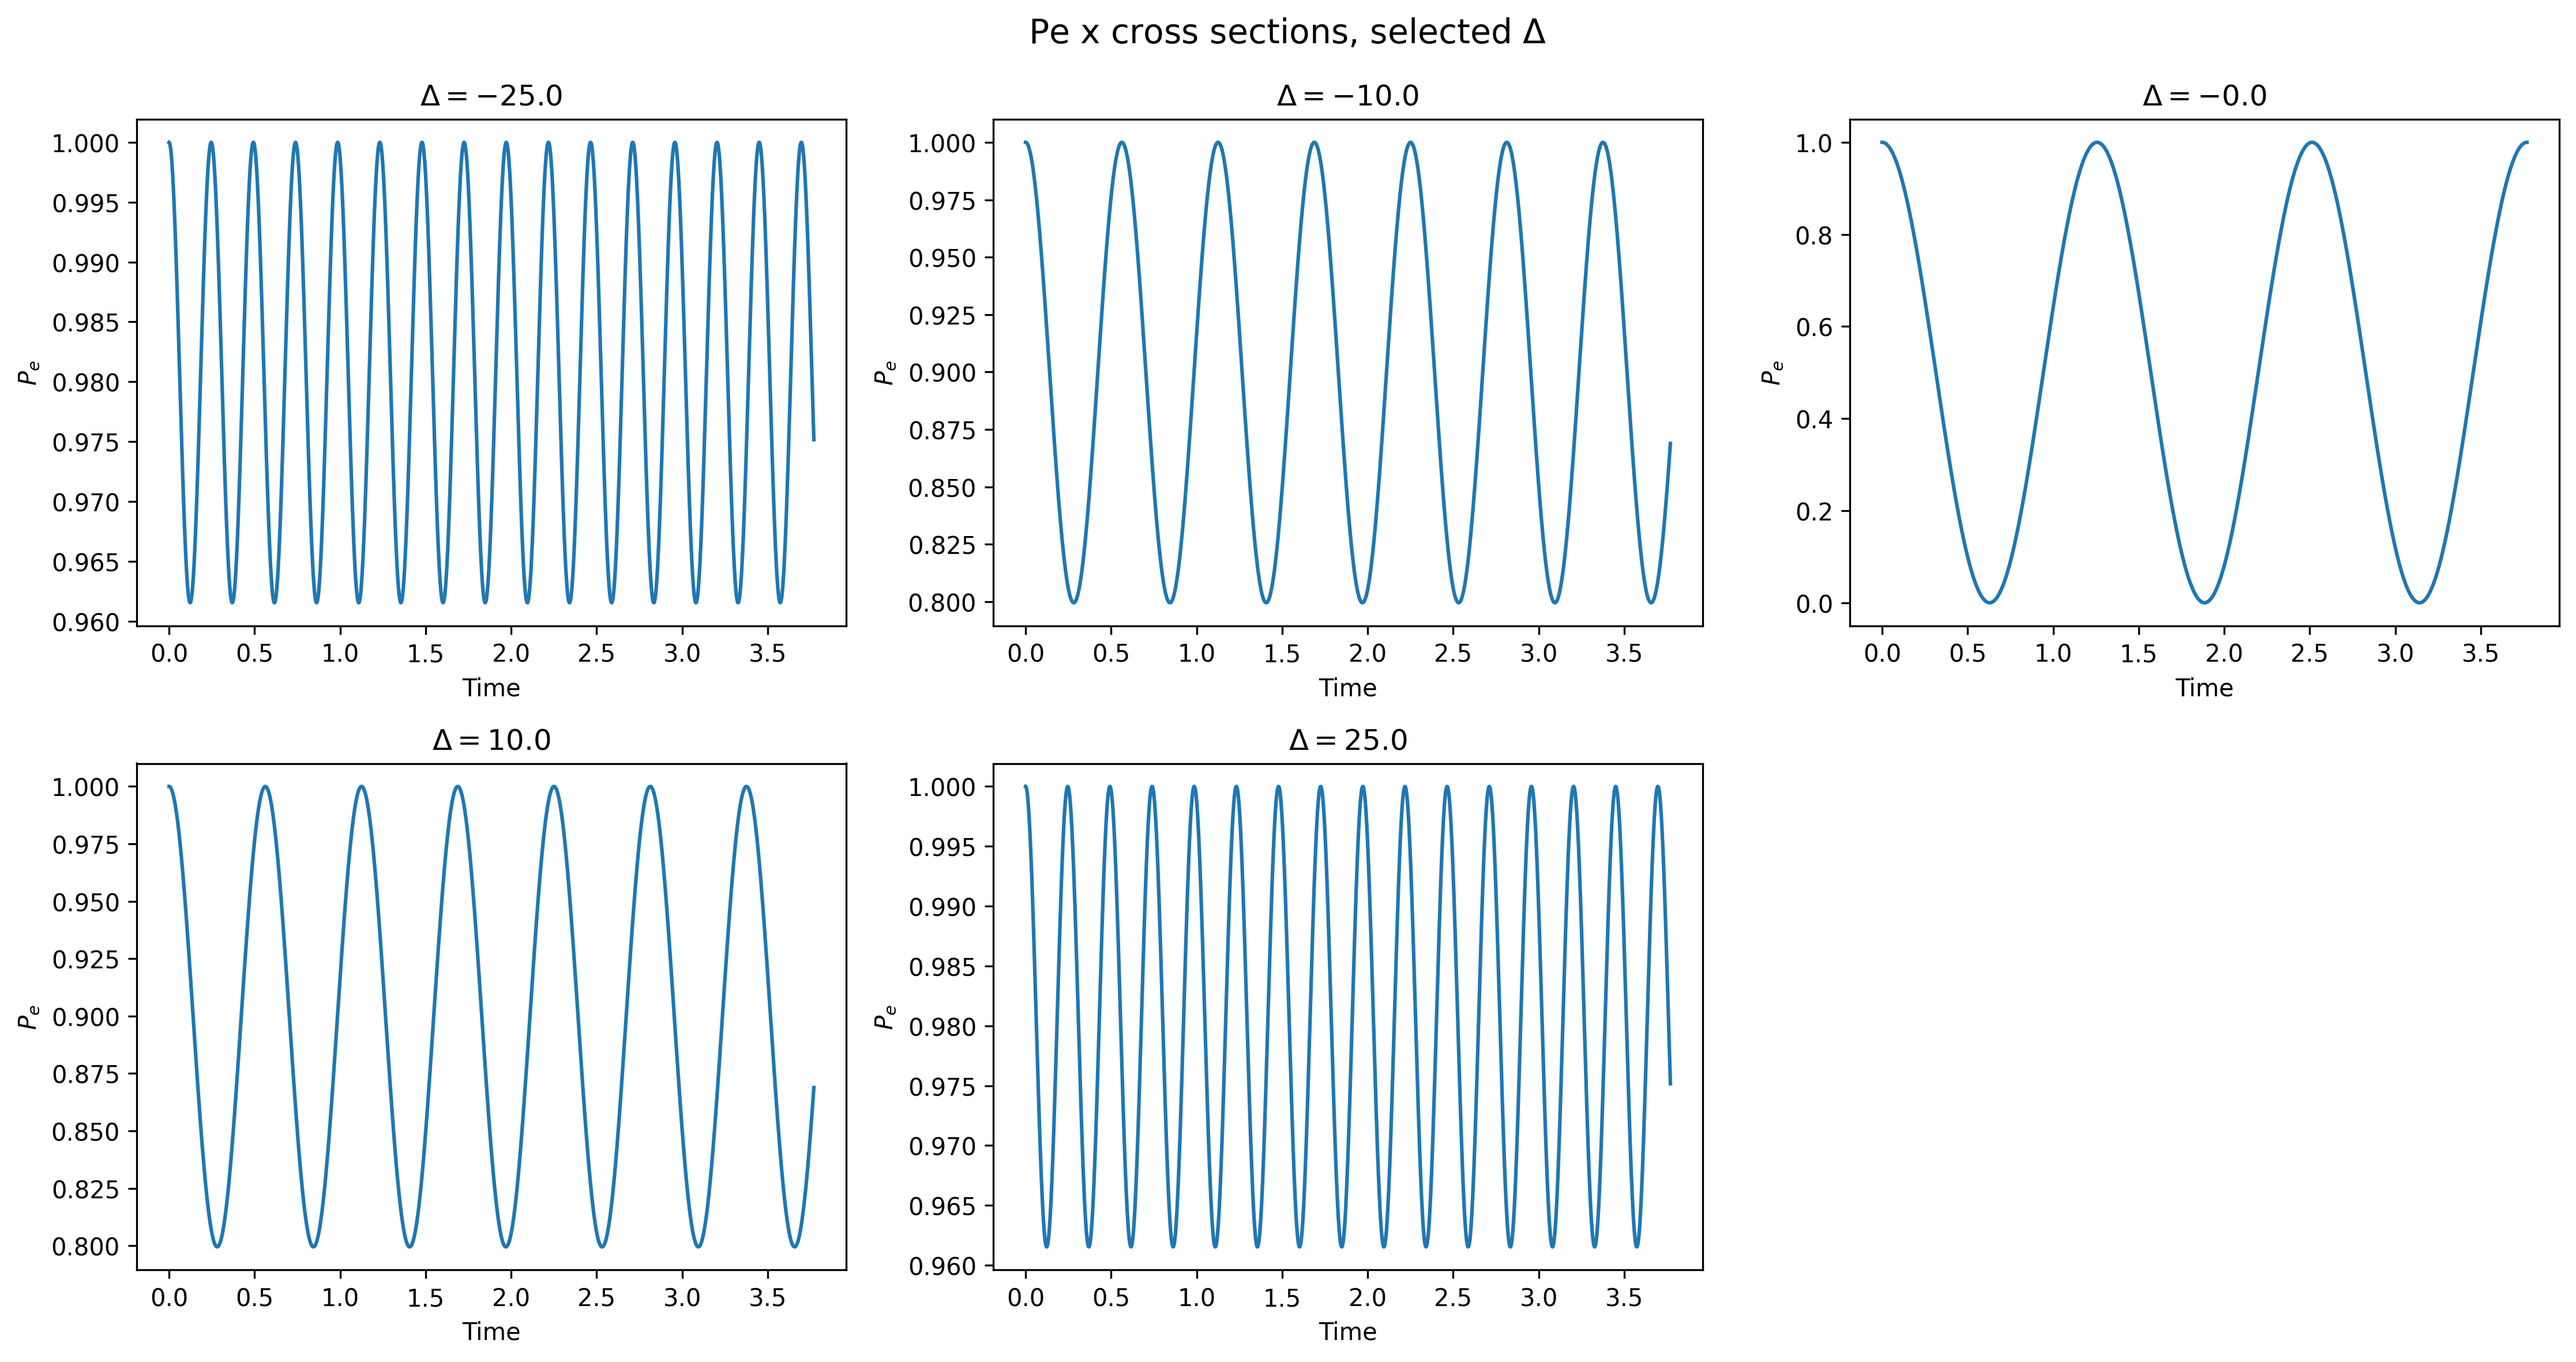
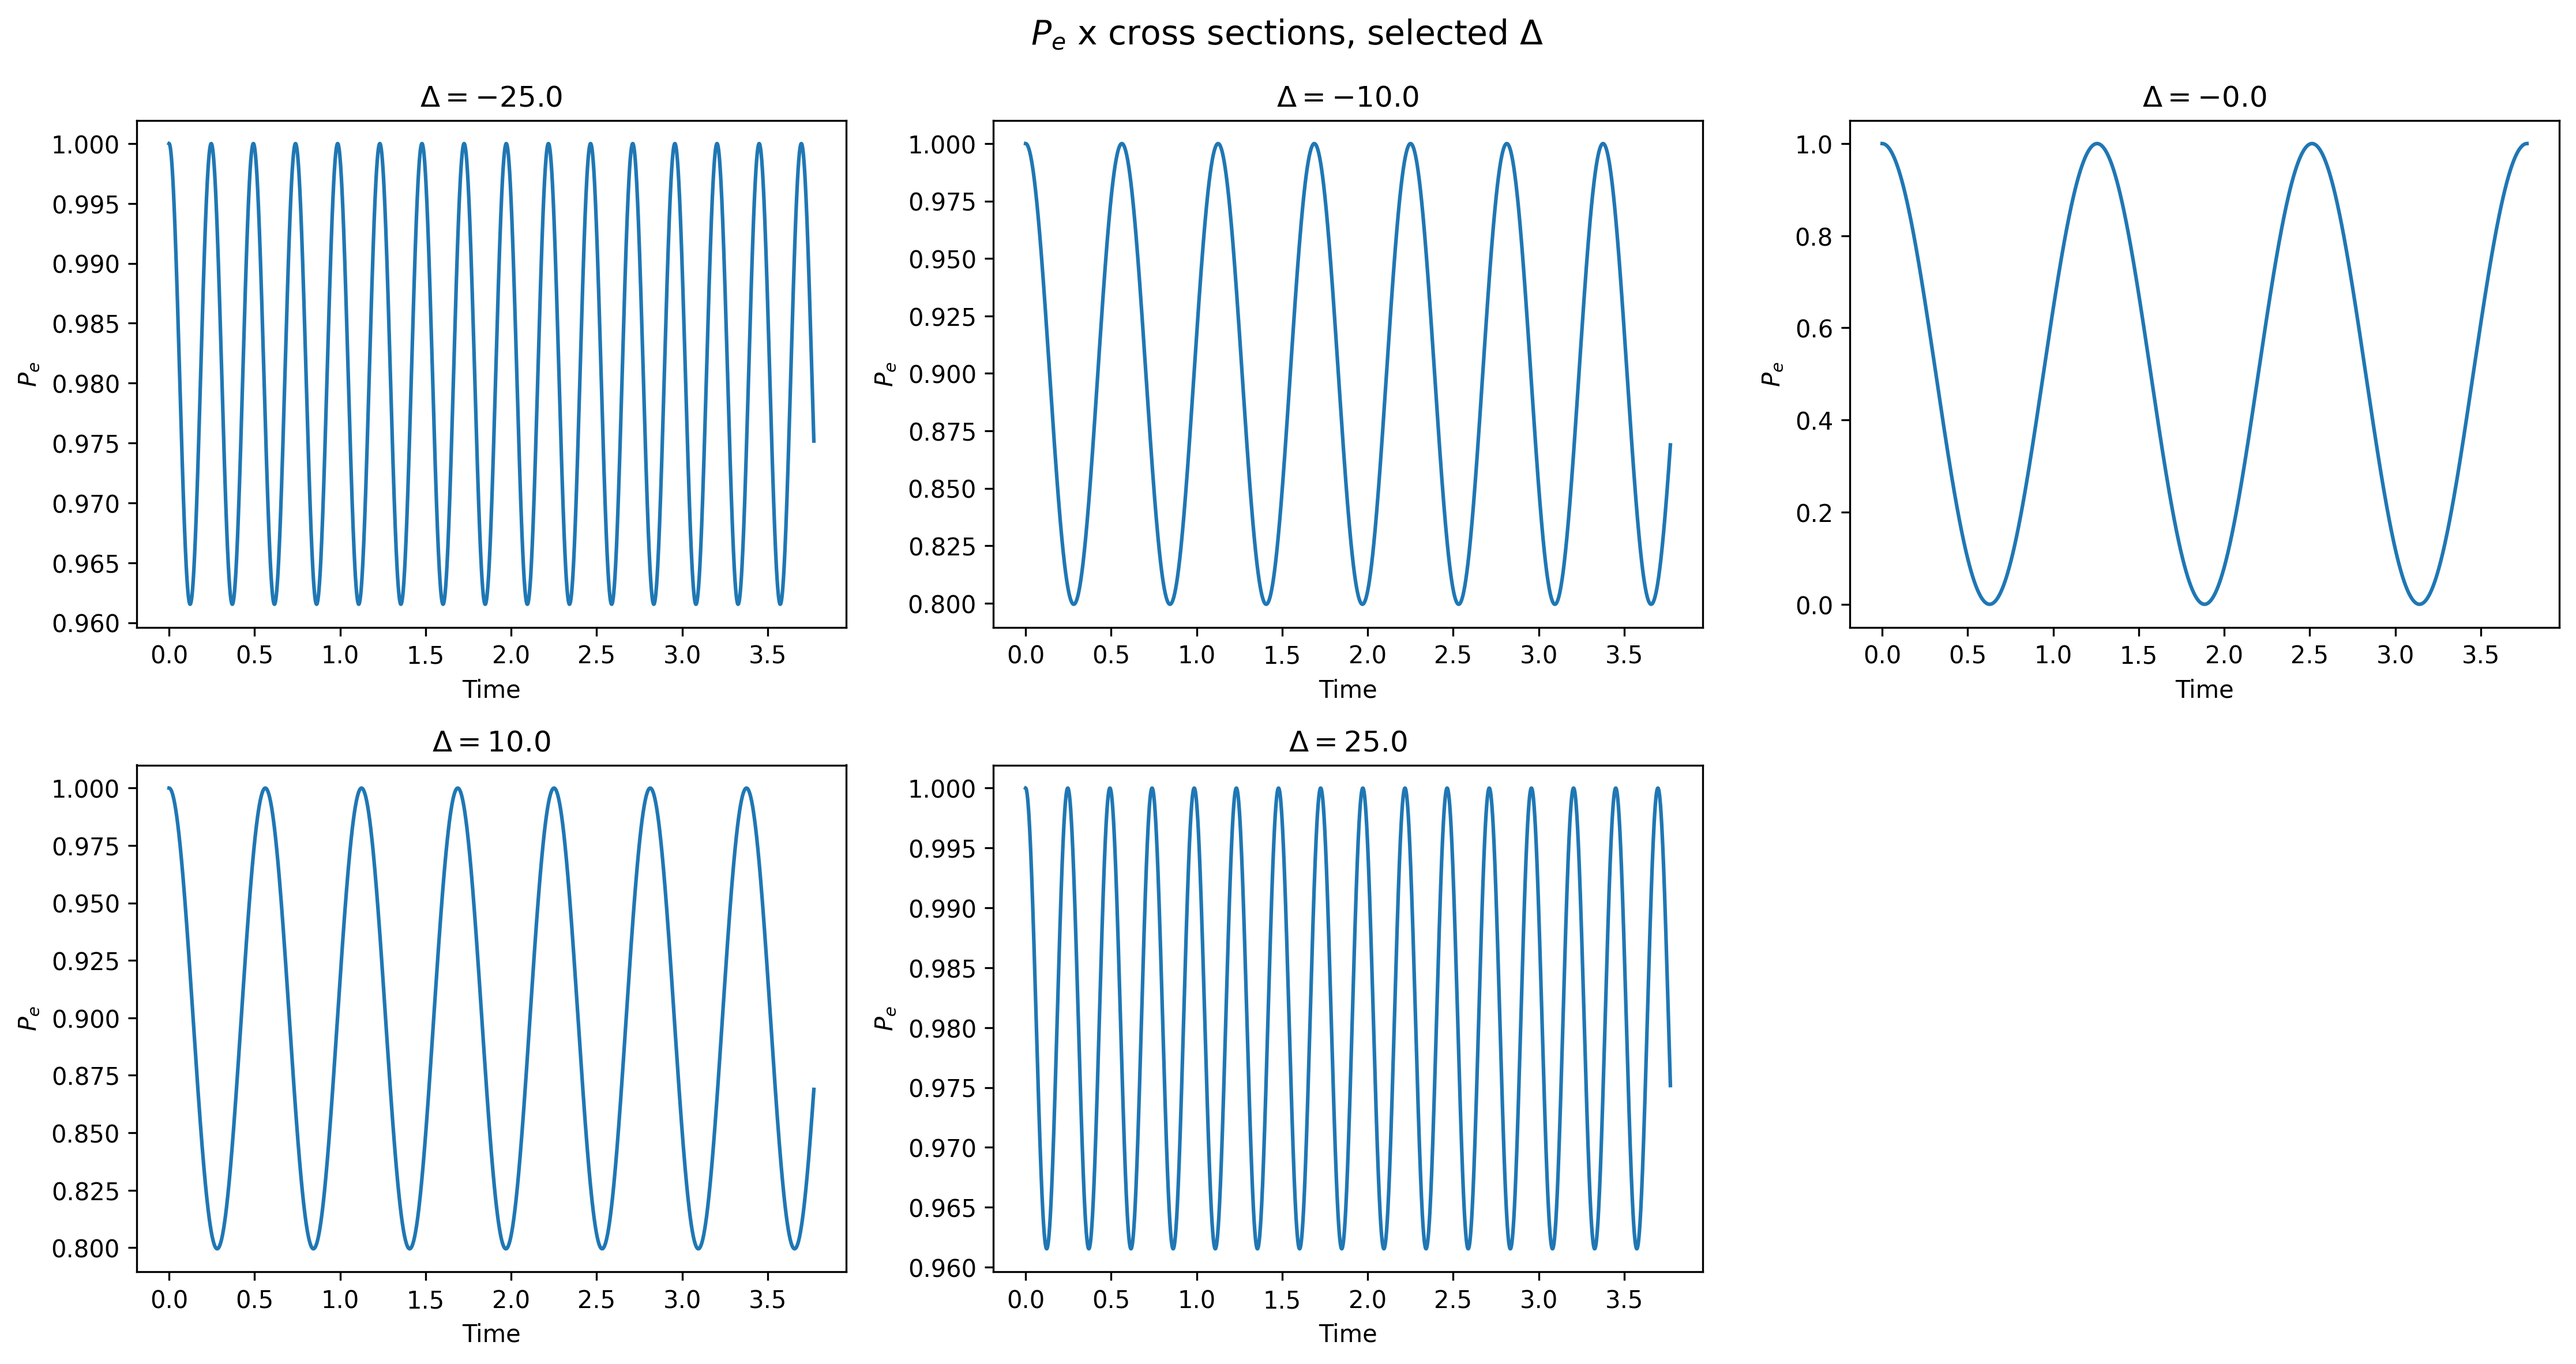
finished

diff --git a/Light_Matter_Interaction_Numeric_assignment.py b/Light_Matter_Interaction_Numeric_assignment.py
@@ -213,7 +213,7 @@ for ax in axes[len(selected_deltas):]:
     ax.axis("off")
 
 plt.tight_layout(rect=[0, 0, 1, 0.95])
-fig.text(0.5, 0.96, r"Pe x cross sections, selected $\Delta$",ha="center",fontsize=14)
+fig.text(0.5, 0.96, r"$P_e$ x cross sections, selected $\Delta$",ha="center",fontsize=14)
 plt.savefig("Pe_x_cross_sections_delta.png", dpi=300, bbox_inches="tight")
 plt.show()
 
@@ -633,8 +633,7 @@ t_eval = np.linspace(t_span[0], t_span[1], 3000)
 fig, axes = plt.subplots(2, 2, figsize=(13, 9))
 axes = axes.flatten()
 
-colors = ["navy", "darkorange", "purple"]
-# colors = [("navy", "darkorange"), ("purple", "pink")] 
+colors = ["purple", "navy", "darkorange"]
 
 for i in range(len(Omega12_cases)):
     Omega12_0 = Omega12_cases[i]
@@ -737,9 +736,7 @@ for i in range(len(Omega12_cases)):
     avg_norm = np.mean(norm)
     error = np.max(np.abs(norm - 1))
 
-    # ---------------------------------- #
     # Plot
-    # ---------------------------------- #
     ax = axes[i]
 
     ax.plot(t_eval, P1, label=r"$|C_1|^2$", color=colors[0])
@@ -778,7 +775,330 @@ plt.savefig("Three_level_AE.png", dpi=300, bbox_inches="tight")
 plt.show()
 
 # ---------------------------------- #
-# 2.e. solving via Heff
+# 2.e. solving via H_eff 
 # ---------------------------------- #
 
-Omega_eff = Omega12_0 * Omega23_0 / Delta0
+# Since Omega12 = Omega23, the diagonal terms of H_eff are equal.
+# They contribute only a global phase and do not affect the populations.
+# So can be removed
+
+# def new schrodinger eq for H_eff (can't use schrodinger2 the H is different along main diag)
+def schrodinger_Heff(t, state, Delta_eff, Omega_eff):
+    C1, C3 = state
+
+    dC1_dt= -(1j/2) *((Delta_eff * C1) + (Omega_eff * C3))
+    dC3_dt= -(1j/2) *((Delta_eff * C3) + (Omega_eff.conjugate() * C1))
+    
+    return [dC1_dt, dC3_dt]
+
+# Def parameters
+Omega12_cases = [5.0, 5.0]
+Omega23_cases = [5.0, 5.0]
+Delta0_cases = [10 * Omega12_cases[0], 20 * Omega12_cases[1]]
+
+# Took only the initial state of c = (1, 0, 0) and not c = (0, 1, 0) => c = (0, 0) is weird 
+initial_state_cases = np.array([(1, 0), (1, 0)], dtype=complex)
+
+# Plot def
+fig, axes = plt.subplots(1, 2, figsize=(13, 9))
+axes = axes.flatten()
+
+Omega_eff1 = (Omega12_cases[1] * Omega23_cases[1]) / Delta0_cases[1]
+
+for i in range(len(Omega12_cases)):
+    Omega12_0 = Omega12_cases[i]
+    Omega23_0 = Omega23_cases[i]
+    Delta0 = Delta0_cases[i]
+
+    Omega_eff = (Omega12_0 * Omega23_0) / Delta0
+    Delta_eff = (Omega12_0**2) / Delta0
+
+    # Time - the same time scale for both iter
+    t_span = (0, (3 * pi/Omega_eff1))
+    t_eval = np.linspace(t_span[0], t_span[1], 3000)    
+
+    sol = solve_ivp(schrodinger_Heff, t_span, initial_state_cases[i], args=(Delta_eff, Omega_eff), t_eval=t_eval, rtol=1e-9, atol=1e-11)
+
+    C1, C3 = sol.y[0], sol.y[1]
+    P1, P3 = np.abs(C1)**2, np.abs(C3)**2
+    norm = P1 + P3
+    avg_norm = np.mean(norm)
+    error = np.max(np.abs(norm - 1))
+
+    # Plot
+    ax = axes[i]
+
+    ax.plot(t_eval, P1, label=r"$|C_1|^2$", color=colors[0])
+    ax.plot(t_eval, P3, label=r"$|C_3|^2$", color=colors[2])
+
+    ax.set_xlabel("Time")
+    ax.set_ylabel("Population")
+
+    ax.set_ylim(-0.05, 1.05)
+
+    ax.legend(loc="upper right")
+    ax.grid(alpha=0.3)
+
+    # initial state for title
+    c10, c30 = np.real(initial_state_cases[i])
+
+    ax.set_title(rf"$\Omega_{{12}}=\Omega_{{23}}={Omega12_0}$"
+        "\n"
+        rf"$\Delta={Delta0},\ \delta=0$"
+        "\n"
+        rf"$C(0)=({c10},{c30})$")
+
+    norm_text = (rf"$\langle P_1+P_3\rangle={avg_norm:.10f}$"
+        "\n"
+        rf"$\max|P_1+P_3-1|={error:.2e}$")
+
+    ax.text(0.5, -0.30, norm_text, transform=ax.transAxes, ha="center", va="top", fontsize=10)
+
+fig.suptitle(r"Three-level system dynamics"
+             "\n"
+             r"Adiabatic Elimination solution $H_{\mathrm{eff}}$", fontsize=18, y=0.99)
+
+plt.tight_layout(rect=[0, 0.06, 1, 0.95])
+plt.savefig("Three_level_AE_Heff.png", dpi=300, bbox_inches="tight")
+plt.show()
+
+
+
+# ------------------------------------------------------------- #
+# 2.f. - 2.g. 3 level EIT (Electromagnetic Induced Tansparency)
+# ------------------------------------------------------------- #
+
+# This time Omega12 << Omega23
+# Case 1: Omega12 = 0.01 Omega23
+# Case 2: Omega12 = 0.1 Omega23
+# Initial cond c(0) = [(1, 0, 0), (0, 1, 0)]
+
+# Def all cases
+Omega23_cases = [5.0, 5.0, 5.0, 5.0]
+Omega12_cases = [0.01 * Omega23_cases[0], 0.01 * Omega23_cases[1], 0.1 * Omega23_cases[2], 0.1 * Omega23_cases[3]]
+Delta0_cases = delta0_cases = np.zeros(len(Omega23_cases))
+
+initial_state_cases = np.array([(1, 0, 0), (0, 1, 0), (1, 0, 0), (0, 1, 0)], dtype=complex)
+
+# -------------------------- #
+# Time dynamics at Delta = 0
+# -------------------------- #
+# Plot def
+fig, axes = plt.subplots(2, 2, figsize=(13, 9))
+axes = axes.flatten()
+
+for i in range(len(Omega12_cases)):
+    Omega12_0 = Omega12_cases[i]
+    Omega23_0 = Omega23_cases[i]
+    Delta0 , delta0 = Delta0_cases[i], delta0_cases[i]
+
+     # Delta(t), delta(t), Omega12(t), Omega23(t) are all const
+    Omega12 = lambda t, Omega12_0=Omega12_0: Omega12_0
+    Omega23 = lambda t, Omega23_0=Omega23_0: Omega23_0
+    Delta = lambda t, Delta0=Delta0: Delta0
+    delta = lambda t, delta0=delta0: delta0
+
+    # Time 
+    t_span = (0, (3 * pi/Omega23_0))
+    t_eval = np.linspace(t_span[0], t_span[1], 3000)
+
+    sol = solve_ivp(schrodinger_3_level, t_span, initial_state_cases[i], args=(Delta, delta, Omega12, Omega23), t_eval=t_eval, rtol=1e-9, atol=1e-11)
+
+    C1, C2, C3 = sol.y[0], sol.y[1], sol.y[2]
+    P1, P2, P3 = np.abs(C1)**2, np.abs(C2)**2, np.abs(C3)**2
+    norm = P1 + P2 + P3
+    avg_norm = np.mean(norm)
+    error = np.max(np.abs(norm - 1))
+
+    # Plot
+    ax = axes[i]
+
+    ax.plot(t_eval, P1, label=r"$|C_1|^2$", color=colors[0])
+    ax.plot(t_eval, P2, label=r"$|C_2|^2$", color=colors[1])
+    ax.plot(t_eval, P3, label=r"$|C_3|^2$", color=colors[2])
+
+    ax.set_xlabel("Time")
+    ax.set_ylabel("Population")
+
+    ax.set_ylim(-0.05, 1.05)
+
+    ax.legend(loc="upper right")
+    ax.grid(alpha=0.3)
+
+    # initial state for title
+    c10, c20, c30 = np.real(initial_state_cases[i])
+    ratio = Omega12_0 / Omega23_0
+
+    ax.set_title(rf"$\Omega_{{12}}={ratio:.2f}\Omega_{{23}}$"
+        "\n"
+        rf"$\Omega_{{23}}={Omega23_0},\ \Delta=0,\ \delta=0$"
+        "\n"
+        rf"$C(0)=({c10:.0f},{c20:.0f},{c30:.0f})$")
+
+    norm_text = (rf"$\langle P_1+P_2+P_3\rangle={avg_norm:.10f}$"
+        "\n"
+        rf"$\max|P_1+P_2+P_3-1|={error:.2e}$")
+
+    ax.text(0.5, -0.30, norm_text, transform=ax.transAxes, ha="center", va="top", fontsize=10)
+
+fig.suptitle(r"Three-level EIT dynamics"
+             "\n"
+             r"Time evolution at $\Delta=0$", fontsize=18, y=0.99)
+
+plt.tight_layout(rect=[0, 0.06, 1, 0.95])
+plt.savefig("Three_level_EIT_time.png", dpi=300, bbox_inches="tight")
+plt.show()
+
+# ------------------------------------------ #
+# Population as a function of detuning Delta
+# at fixed time tf = pi / Omega23
+# ------------------------------------------ #
+
+Delta_values = np.linspace(-5 * Omega23_cases[0], 5 * Omega23_cases[0], 1000)
+
+fig, axes = plt.subplots(2, 2, figsize=(13, 9))
+axes = axes.flatten()
+
+for i in range(len(Omega12_cases)):
+    Omega12_0 = Omega12_cases[i]
+    Omega23_0 = Omega23_cases[i]
+
+    t_final = pi / Omega23_0
+    t_span = (0, t_final)
+
+    Omega12 = lambda t, Omega12_0=Omega12_0: Omega12_0
+    Omega23 = lambda t, Omega23_0=Omega23_0: Omega23_0
+    delta = lambda t, delta0=delta0: delta0
+
+    P2_vs_Delta = np.zeros(len(Delta_values))
+    P3_vs_Delta = np.zeros(len(Delta_values))
+
+    for j, Delta0 in enumerate(Delta_values):
+
+        Delta = lambda t, Delta0=Delta0: Delta0
+
+        # Only need the population at the final time t_eval=[t_final]
+        sol = solve_ivp(schrodinger_3_level, t_span, initial_state_cases[i], args=(Delta, delta, Omega12, Omega23), t_eval=[t_final], rtol=1e-9, atol=1e-11)
+
+        C2_final = sol.y[1, -1]
+        C3_final = sol.y[2, -1]
+
+        P2_vs_Delta[j] = np.abs(C2_final)**2
+        P3_vs_Delta[j] = np.abs(C3_final)**2
+
+    # Plot
+    ax = axes[i]
+
+    ax.plot(Delta_values, P2_vs_Delta, label=r"$|C_2(t_f)|^2$", color=colors[1])
+    ax.plot(Delta_values, P3_vs_Delta, label=r"$|C_3(t_f)|^2$", color=colors[2])
+    ax.set_xlabel(r"Detuning $\Delta$")
+    ax.set_ylabel("Population")
+
+    ax.set_ylim(-0.05, 1.05)
+    ax.grid(alpha=0.3)
+    ax.legend()
+
+    c10, c20, c30 = np.real(initial_state_cases[i])
+    ratio = Omega12_0 / Omega23_0
+
+    ax.set_title(rf"$\Omega_{{12}}={ratio:.2f}\Omega_{{23}}$"
+        "\n"
+        rf"$t_f=\pi/\Omega_{{23}},\ \delta=0$"
+        "\n"
+        rf"$C(0)=({c10:.0f},{c20:.0f},{c30:.0f})$")
+
+fig.suptitle("Three-level EIT"
+    "\n"
+    r"Upper-level populations as a function of detuning $\Delta$", fontsize=18, y=0.99)
+plt.tight_layout(rect=[0, 0, 1, 0.94])
+plt.savefig("Three_level_EIT_detuning.png", dpi=300, bbox_inches="tight")
+plt.show()
+
+# ---------------------------- #
+# 2.h. 3 level STIRAP dynamics
+# ---------------------------- #
+
+# scaning Delta over -Delta_0 to +Delta_0
+# Delta(t) = -Delta0 + alpha*t
+# sweep from -Delta0 to +Delta0
+# delta = 0
+# initial state C(0) = (1,0,0)
+# alpha = [1.0, 5.0, 10.0]
+# plot C(t) slow adiabatic rate, and fast depending on alpha
+
+Omega23_0 = 5.0
+Omega12_0 = 0.1 * Omega23_0
+
+Delta0 = 10 * Omega23_0
+delta0 = 0.0
+
+initial_state_STIRAP = np.array([1.0, 0.0, 0.0], dtype=complex)
+
+# different sweeping rates:
+# small alpha = slow / more adiabatic
+# large alpha = fast / less adiabatic
+alpha_cases = [0.1, 1.0, 5.0, 20.0]
+
+fig, axes = plt.subplots(2, 2, figsize=(13, 9))
+axes = axes.flatten()
+
+for i, alpha in enumerate(alpha_cases):
+
+    # Time range
+    t_final = 2 * Delta0 / alpha
+    t_span = (0, t_final)
+    t_eval = np.linspace(t_span[0], t_span[1], 3000)
+
+    # Def parameters
+    Omega12 = lambda t, Omega12_0=Omega12_0: Omega12_0
+    Omega23 = lambda t, Omega23_0=Omega23_0: Omega23_0
+    Delta = lambda t, Delta0=Delta0, alpha=alpha: -Delta0 + alpha * t
+    delta = lambda t, delta0=delta0: delta0
+
+    sol = solve_ivp(schrodinger_3_level, t_span, initial_state_STIRAP, args=(Delta, delta, Omega12, Omega23), t_eval=t_eval, rtol=1e-9, atol=1e-11)
+
+    C1, C2, C3 = sol.y[0], sol.y[1], sol.y[2]
+    P1 = np.abs(C1)**2
+    P2 = np.abs(C2)**2
+    P3 = np.abs(C3)**2
+
+    # normalization check
+    norm = P1 + P2 + P3
+    avg_norm = np.mean(norm)
+    error = np.max(np.abs(norm - 1))
+
+    # Plot
+    ax = axes[i]
+
+    ax.plot(t_eval, P1, label=r"$|C_1|^2$", color=colors[0])
+    ax.plot(t_eval, P2, label=r"$|C_2|^2$", color=colors[1])
+    ax.plot(t_eval, P3, label=r"$|C_3|^2$", color=colors[2])
+
+    ax.set_xlabel("Time")
+    ax.set_ylabel("Population")
+
+    ax.set_ylim(-0.05, 1.05)
+
+    ax.grid(alpha=0.3)
+    ax.legend(loc="upper right")
+
+    ax.set_title(rf"$\alpha={alpha}$"
+        "\n"
+        rf"$\Omega_{{12}}={Omega12_0},\ "
+        rf"\Omega_{{23}}={Omega23_0}$"
+        "\n"
+        rf"$\Delta:-{Delta0}\rightarrow+{Delta0}$")
+
+    norm_text = (rf"$\langle P_1+P_2+P_3\rangle={avg_norm:.10f}$"
+        "\n"
+        rf"$\max|P_1+P_2+P_3-1|={error:.2e}$")
+
+    ax.text(0.5, -0.30, norm_text, transform=ax.transAxes, ha="center", va="top", fontsize=10)
+
+fig.suptitle("Three-level system dynamics"
+    "\n"
+    r"Linear detuning sweep: $\Delta(t)=-\Delta_0+\alpha t$", fontsize=18, y=0.99)
+
+plt.tight_layout(rect=[0, 0.06, 1, 0.95])
+plt.savefig("Three_level_STIRAP_dynamics.png", dpi=300, bbox_inches="tight")
+plt.show()
